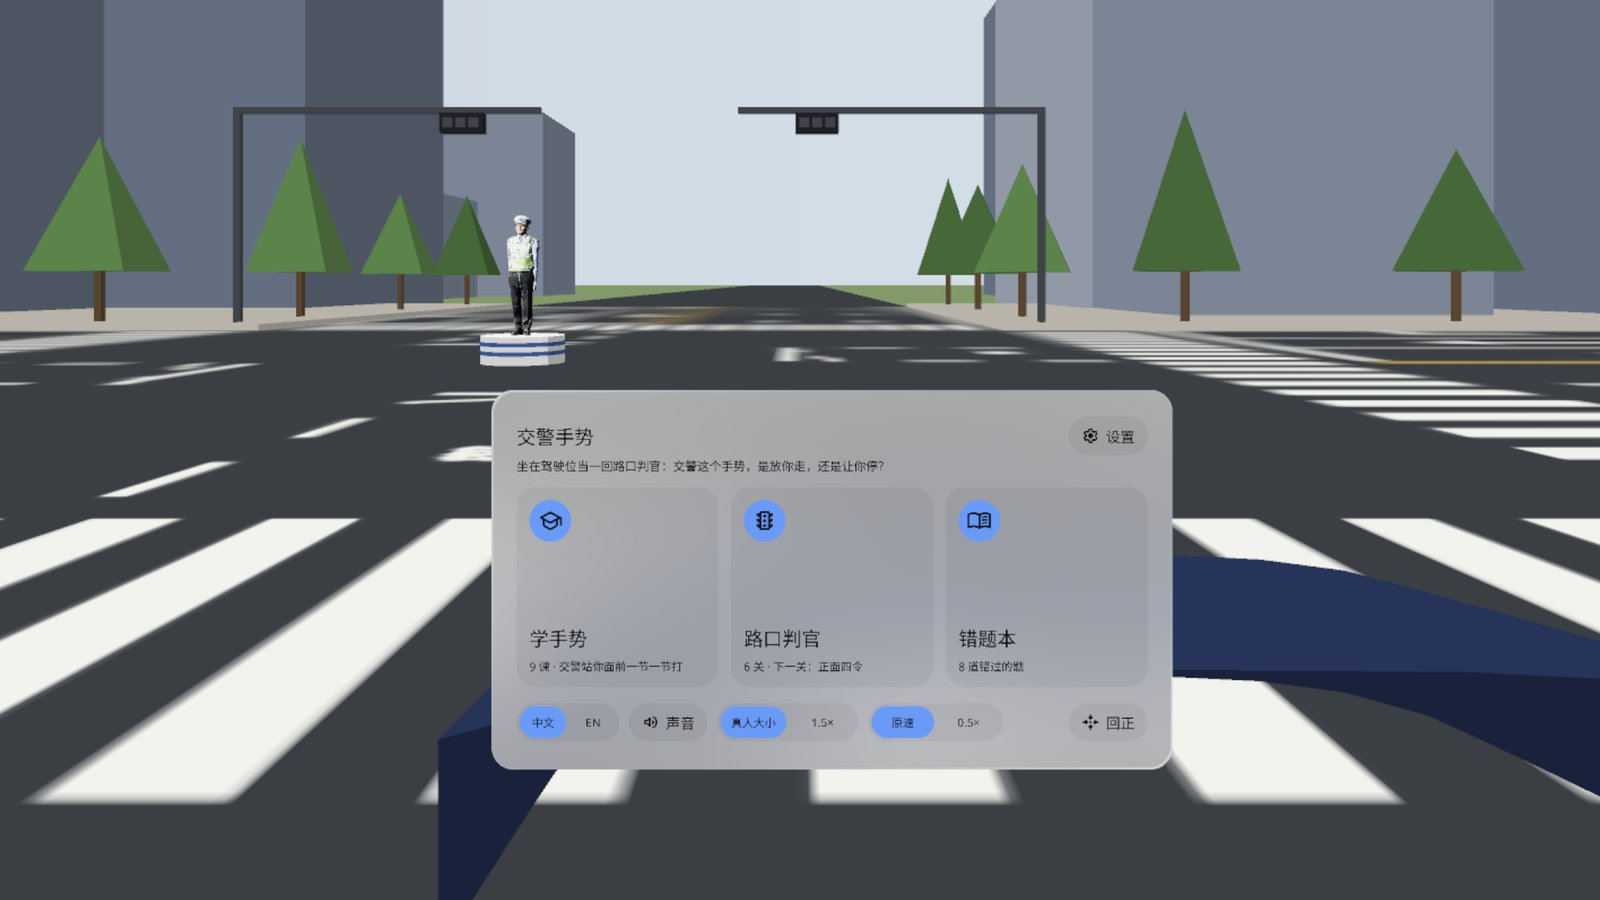
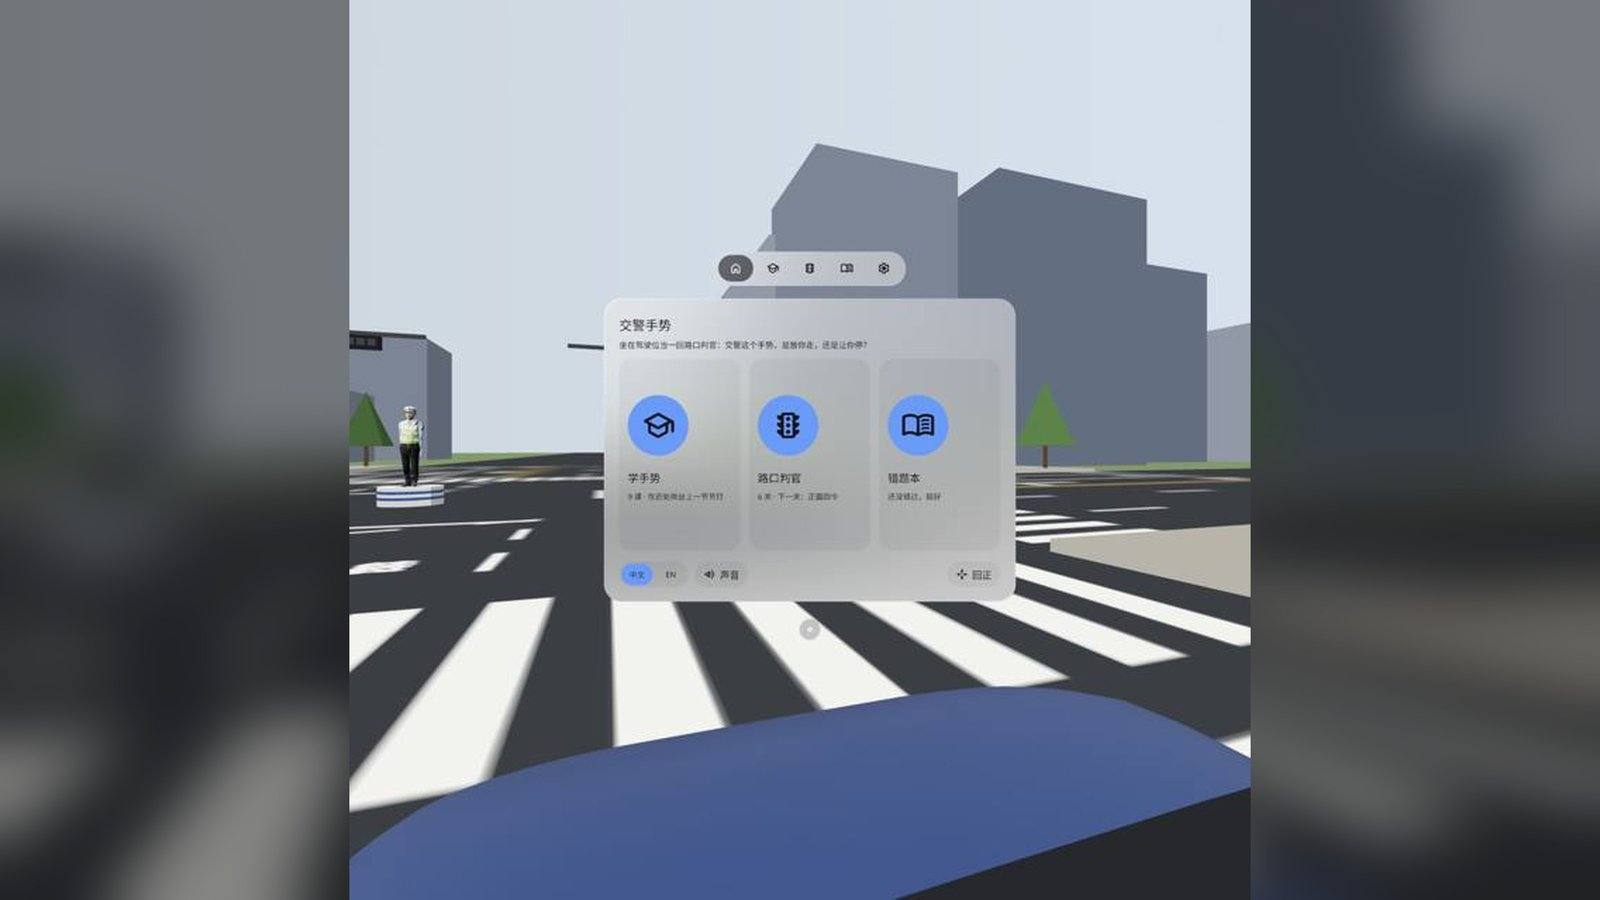
traffic-signals v0.1.5 release: README, v0.1.5 screenshots, AGENTS.md links
README describes v0.1.5 (checked on a headset), the changes since v0.1.1,
QA round 6 results and the English results-page truncation as a known issue.
docs/ screenshots replaced with v0.1.5 shots (Chinese + English).
AGENTS.md points at the factory's local PRD / sample HTML instead of private links.

diff --git a/README.md b/README.md
@@ -1,6 +1,6 @@
 # Traffic Cop Signals 交警手势
 
-> **v0.1.1 · Pre-release · passed emulator QA, not yet verified on a headset**（预发布 · 模拟器 QA 通过，真机未验证）
+> **v0.1.5 · checked on a PICO headset** · [Release v0.1.5](https://github.com/kejing-dev/TrafficSignals/releases/tag/v0.1.5)（真机看过，正式版）
 
 ![Traffic Cop Signals 交警手势](docs/cover.jpg)
 
@@ -12,54 +12,55 @@
 
 ## English
 
-Sit in the driver's seat at a virtual crossroads. A life-size traffic officer on the centre post turns to a random direction and gives one of the 8 official Chinese traffic police hand signals. Is that signal meant for your lane? Go, stop, pull into the waiting box, slow down, clear the lane or pull over. A PICO OS 6 app built with the PICO Spatial SDK.
+Sit in the driver's seat at a virtual crossroads. A life-size traffic officer on the post at the side of the junction turns to a random direction and gives one of the 8 official Chinese traffic police hand signals. Is that signal meant for your lane? Go, stop, pull into the waiting box, slow down, clear the lane or pull over. A PICO OS 6 app built with the PICO Spatial SDK.
 
-- **Learn the signals**: 9 lessons. Lesson 0 teaches you to read his front, back, left and right; lessons 1–8 cover the 8 signals (stop, go straight, left turn, left turn wait, right turn, change lane, slow down, pull over). The officer demonstrates 6 m ahead, step by step, with the official wording of each step, four viewing angles, 0.5× speed and a thumbstick to turn him around
+- **Learn the signals**: 9 lessons. Lesson 0 teaches you to read his front, back, left and right; lessons 1–8 cover the 8 signals (stop, go straight, left turn, left turn wait, right turn, change lane, slow down, pull over). The officer demonstrates on the post ahead of you, step by step, with the official wording of each step, four viewing angles, 0.5× speed and a thumbstick to turn him around
 - **Crossroads judge**: 6 levels, 69 questions: Face to face · On his right · On his left · Any direction · Same signal, other lane · Timed judge (answer within 5 s). All levels are open from the start
 - **Verdict card** explains every answer in three steps: which way he faces → whom the signal releases → which lane you are in. Right answers send your car off along its route, painted on the road ahead of you
 - **[Hint]** stands small signs around the post ("his front / back / left / right")
 - **Mistake book** groups wrong answers by signal and turns them into a practice round
-- Settings: language (Chinese / English), sound, officer size (life-size or 1.5×), speed, re-centre the crossroads, reset progress, quit app
+- Settings: language (Chinese / English), sound and volume, officer size (life-size or 1.5×), speed, re-centre the crossroads, reset progress, quit app
 - Offline, no account, no permissions
 
-### Screenshots (emulator, Chinese UI)
+### Screenshots (v0.1.5, emulator)
 
 | | |
 |---|---|
-| ![Lesson](docs/01-lesson.jpg) Learn: the left-turn signal frozen step by step, with the official wording on the right | ![Home](docs/02-home.jpg) Home: learn, crossroads judge, mistake book; language, sound, 1.5× size and slow motion |
-| ![Hint](docs/03-hint.jpg) Read his position first: [Hint] stands "his front / back / left / right" signs around the post | ![Verdict](docs/04-verdict.jpg) Verdict card: right, and why, in three steps |
-| ![Waiting box](docs/05-waitbox.jpg) Left turn wait: answer "pull into the waiting box" and your car slides over the zebra crossing into the box | ![Mistakes](docs/06-mistakes.jpg) Mistake book: wrong answers grouped by signal, one tap to practise them again |
+| ![Start](docs/01-start.jpg) Start: the officer stands on the post at the left of the junction; the window is in front of you, your own bonnet below | ![Home](docs/02-home.jpg) Home: learn, crossroads judge, mistake book; language, sound and re-centre along the bottom |
+| ![Lesson](docs/03-lesson.jpg) Lesson 1 "Stop": the officer demonstrates step by step, each step with the official wording | ![Result](docs/04-result.jpg) Level 1 result 9/10: score on the left, the missed question and its right answer on the right |
+| ![Mistakes](docs/05-mistakes.jpg) Mistake book: wrong answers kept by signal, one tap to practise again | ![Drill](docs/06-drill.jpg) Mistake drill intro: answer them again, right answers leave the book |
+| ![Question (EN)](docs/en-01-question.jpg) English UI: watch the signal, then pick what your lane should do | ![Settings (EN)](docs/en-04-settings.jpg) English settings: language, sound, volume, officer size, speed, re-centre, reset, quit |
 
-Screenshots come from the PICO emulator with states pinned by debug broadcasts. The side panels (verdict card at +36°, lesson panel at +30°) sit to your right, so a single forward screenshot only catches part of them; on QA's dedicated shots every panel shows all four rounded corners. The demo video in the release (`TrafficSignals-demo-1080p.mp4`, 58 s) is a native emulator run **driven by debug input — not a recording of real hand gestures or a real person** — and has no sound.
+Screenshots are from the PICO emulator at QA round 6 (v0.1.5). They are rebuilt from the QA report's 640 px copies, so they are softer than the headset view. The QA demo video is a native emulator run **driven by adb taps — not a recording of real hand gestures** — and has no sound.
 
 ### Install
 
 ```bash
-adb install -r TrafficSignals-v0.1.1.apk
+adb install -r TrafficSignals-v0.1.5.apk
 pico-cli app launch io.embodit.trafficsignals
 ```
 
-Get the APK from [Release v0.1.1](https://github.com/kejing-dev/TrafficSignals/releases/tag/v0.1.1). Requires PICO OS 6 (Spatial SDK 6.1.9, minSdk 35).
+Get the APK from [Release v0.1.5](https://github.com/kejing-dev/TrafficSignals/releases/tag/v0.1.5). Requires PICO OS 6 (Spatial SDK 6.1.9, minSdk 35). The release APK is an unsigned `assembleRelease` build for store re-signing; to sideload it yourself, sign it with your own debug key first (`apksigner sign --ks ~/.android/debug.keystore …`) or build `./gradlew assembleDebug`.
 
-### Not yet verified on a headset
+### What changed since v0.1.1
 
-Emulator QA round 2 passed all three gates (no Material components; install + launch + 60 s with no crash / ANR; all 19 states captured and checked in Chinese and English) and confirmed all 7 round-1 findings fixed, including both blockers (the "ghost car" starting from your own seat and covering the panels; English level titles cut off). No headset was connected when this was published, so a person still needs to check on a real PICO:
+- **v0.1.2** One native window: all 2D content in one system window with the SpatialUI TabBar (home / learn / judge / mistakes / settings). The officer starts on the post at the left of the junction instead of on top of you; city image-based lighting so his shirt and skin are no longer washed out.
+- **v0.1.3** Timed level: pausing, the leave dialog or closing the window stops the signal and the 5 s clock and never reveals the answer; volume slider; a rounded bonnet with mirrors for your own car and rounded cars on the road.
+- **v0.1.4** [Again] after a drill that cleared the mistake book replays the round; taller volume slider; [Clear] on the mistake book asks first; system minimise stops the clock like closing the window.
+- **v0.1.5** Result, mistake book, intro, confirm and short lesson pages re-laid out without large empty bands; bigger question line and answer keys.
 
-1. Eye + pinch and controller ray + trigger on every button of P1–P4 and the dialog, especially the 6 answer keys, [Hint] and [Watch again] on P2's second row, and the three keys on P3 (the emulator cannot tap Stage panels).
-2. Ghost car on all four routes (go straight / right / left, pull into the waiting box): no green car body in front of your face or the panels. The right-turn car comes closest (about 5.7 m) and passes behind P3; check it does not dazzle when you look at P3.
-3. Readability of the officer's signals 14 m away: all 8 signals at life size and at 1.5×, each facing once (on the emulator he is about 20 px tall).
-4. [Hint] direction signs: front and back are easy to tell apart in real depth and do not block the officer.
-5. Settings → Quit app → Quit, by hand: the app leaves recents and reopens on a clean home screen.
-6. Cold start once looking down 30° and once looking up 30°: P1 upright, facing you, near your line of sight.
-7. P3 (+36°) and P4 (+30°): comfortable to turn to, buttons reachable.
-8. Sound: 3 minutes with sound on is not annoying; mute is remembered.
+### Verification
+
+- Emulator QA round 6 (v0.1.5) passed all gates: no Material components; install + launch + 60 s with no crash / ANR; 58 Chinese and English screenshots; real taps through the main flow to Quit; 68 / 68 buttons respond in each language, no text overflow logged.
+- The developer installed v0.1.5 on a PICO headset (Swan) and approved it for release on 2026-11-10.
 
 ### Known issues (non-blocking)
 
-1. On the emulator the loading screen (S1) cannot be captured while the Stage builds its scene, so the S1 shot is from QA round 1 (v0.1.1 did not change it). Cold start to the home screen took 25–43 s on a loaded emulator host; the real timing needs a headset.
-2. Screenshots are at the emulator's default 2160 × 2158, not High Definition 2560, cropped to 16:9.
-3. Some lane / direction answers go beyond the official text and follow the rule "if you are not released, you wait" (e.g. a straight-ahead signal while you are in front of him). The verdict card marks each answer "Official" or "Inferred".
-4. The officer model's licence follows the developer's Tripo account plan and has not been confirmed yet (see Credits). Confirm before making this repository public.
+1. **English results page, 5 or more questions**: each row is limited to one line, so the end of "gesture · facing · lane → correct answer" is cut off with an ellipsis (`Panels.kt` result list, `maxLines = 1` when there are more than 4 rows). Chinese fits. Not fixed in this release.
+2. A few pages still have an empty band of 20–24 % of the window between title and content (results 1/1, mistake book with 1 row, question page, settings); all under the 25 % limit.
+3. On the emulator the loading screen (S1) cannot be captured while the Stage builds its scene.
+4. Some lane / direction answers go beyond the official text and follow the rule "if you are not released, you wait"; the verdict card marks each answer "Official" or "Inferred".
+5. The officer model's licence follows the developer's Tripo account plan and has not been confirmed yet (see Credits).
 
 ### Development
 
@@ -78,57 +79,58 @@ Kotlin · PICO Spatial SDK 6.1.9 · Full Space Stage (`STAGE_FULL`) with one sys
 
 ## 中文
 
-坐在虚拟路口的驾驶位上，路口中心岗台上站着一位 1:1 的交警，他随机转向一个方向，打出 8 种法定交通警察手势中的一种。这个手势是给你这条车道的吗？该走、该停、进待转区、减速慢行、腾空车道，还是靠边停车？PICO OS 6 应用，PICO Spatial SDK 开发。
+坐在虚拟路口的驾驶位上，路口岗台上站着一位 1:1 的交警，他随机转向一个方向，打出 8 种法定交通警察手势中的一种。这个手势是给你这条车道的吗？该走、该停、进待转区、减速慢行、腾空车道，还是靠边停车？PICO OS 6 应用，PICO Spatial SDK 开发。
 
-- **学手势**：9 课。第 0 课先认方位（他的前、后、左、右）；第 1–8 课是 8 种手势（停止、直行、左转弯、左转弯待转、右转弯、变道、减速慢行、示意车辆靠边停车）。交警在你前方 6 米示范，逐节定格，每节配公安部原文；可以换四个角度看、0.5× 慢放、用摇杆转动交警
+- **学手势**：9 课。第 0 课先认方位（他的前、后、左、右）；第 1–8 课是 8 种手势（停止、直行、左转弯、左转弯待转、右转弯、变道、减速慢行、示意车辆靠边停车）。交警在你前方岗台示范，逐节定格，每节配公安部原文；可以换四个角度看、0.5× 慢放、用摇杆转动交警
 - **路口判官**：6 关 69 题：正面四令 · 他的右边是你 · 他的左边是你 · 四面八方 · 换道再看 · 限时判官（5 秒内答）。一开始就全部能玩
 - **判定卡**三步讲清为什么：他朝哪 → 这个手势放谁 → 你在哪条道。答对了，你的车沿着路面上画出的路线开出去
 - **[提示]** 在岗台四周立起「他的前 / 后 / 左 / 右」小牌
 - **错题本**按手势分组，一键再练
-- 设置：语言（中 / 英）、声音、交警大小（真人 / 1.5×）、速度、路口回正、重置进度、退出应用
+- 设置：语言（中 / 英）、声音和音量、交警大小（真人 / 1.5×）、速度、路口回正、重置进度、退出应用
 - 不联网，不需要账号，不申请权限
 
-### 截图（模拟器，中文界面）
+### 截图（v0.1.5，模拟器）
 
 见上方截图表：
 
-1. 学手势：左转弯信号一节一节定格，右边是公安部原文
-2. 主页：学手势、路口判官、错题本，语言、声音、放大 1.5×、慢放都在这
-3. 先认方位：[提示] 在岗台四周立起「他的前 / 后 / 左 / 右」小牌
-4. 判定卡：答对了，三步讲清为什么
-5. 左转待转：答「进待转区」，你的车从斑马线滑进待转框
-6. 错题本：按手势分组记下答错的题，可以一键再练
+1. 开场：交警站在路口左侧岗台上，主窗口在你前方，底下是你自己的车头
+2. 主页：学手势、路口判官、错题本三张卡，底栏切中英、声音、回正
+3. 学手势第 1 课「停止」：交警逐节示范，每节配公安部原文
+4. 路口判官第 1 关 9/10：左边大圆是分数，右边列出答错的题和正确答案
+5. 错题本：答错的题按手势记下，一键再练
+6. 错题练习说明：再答一遍，答对就从错题本删掉
+7. 英文界面答题页、英文设置页
 
-截图来自 PICO 模拟器，状态用调试广播定住拍摄。判定卡（+36°）和课程面板（+30°）在你右手边，正前方的一张截图只拍到它们的一部分；QA 专项截图里每块面板四边圆角都完整。Release 里的演示视频（`TrafficSignals-demo-1080p.mp4`，58 秒）是原生模拟器演示，**由调试输入驱动，非真实手势录像**，无声。
+截图来自 QA 第 6 轮（v0.1.5）的 PICO 模拟器，用 QA 报告里 640 px 的副本合成，比头显里看到的糊一些。QA 演示视频是原生模拟器演示，**由 adb 点按驱动，非真实手势录像**，无声。
 
 ### 安装
 
 ```bash
-adb install -r TrafficSignals-v0.1.1.apk
+adb install -r TrafficSignals-v0.1.5.apk
 pico-cli app launch io.embodit.trafficsignals
 ```
 
-APK 在 [Release v0.1.1](https://github.com/kejing-dev/TrafficSignals/releases/tag/v0.1.1)。需要 PICO OS 6（Spatial SDK 6.1.9，minSdk 35）。
+APK 在 [Release v0.1.5](https://github.com/kejing-dev/TrafficSignals/releases/tag/v0.1.5)。需要 PICO OS 6（Spatial SDK 6.1.9，minSdk 35）。Release 里的 APK 是 `assembleRelease` 未签名包，给商店流水线重签名用；自己侧载要先用自己的 debug key 签名（`apksigner sign --ks ~/.android/debug.keystore …`），或者 `./gradlew assembleDebug` 自己出包。
 
-### 模拟器 QA 通过，真机未验证
+### v0.1.1 之后改了什么
 
-模拟器 QA 第 2 轮三道门禁全过（无 Material 组件；装机、启动、60 秒无崩溃 / ANR；19 个状态中英截图全部核对），第 1 轮 7 条全部复核已修，包括两条阻断（「幽灵车」从你自己的座位出发、糊住视野并穿过面板；英文关卡名被截断）。发布时头显没连，下面这些要戴上头显人工看：
+- **v0.1.2** 一个原生窗口：2D 内容都在一个系统窗口里，用 SpatialUI 原生 TabBar 切主页 / 学手势 / 路口判官 / 错题本 / 设置。交警开场站在路口左侧岗台上，不再落在你身上；换成城市环境光，衬衫和肤色不再发白。
+- **v0.1.3** 第 6 关限时：暂停、离开确认、关窗时手势和 5 秒钟一起停，不露答案；加音量滑条；自己的车换成圆弧车头 + 后视镜，路上配角车换成圆角车身。
+- **v0.1.4** 练到错题清空后 [再来一次] 重练本局；音量滑条加高；错题本 [清空] 先确认；系统最小化和关窗一样停表。
+- **v0.1.5** 结果页、错题本、说明页、确认框、短课重新排版，不再留大片空白；答题页提问句和答案键放大。
 
-1. 眼手捏合、手柄射线 + 扳机点遍 P1–P4 和对话框的所有按钮，尤其 6 个答案键、P2 第二行的 [提示] [再看一遍]、P3 的三个键（模拟器点不到 Stage 面板）。
-2. 幽灵车四条路线（直行 / 右转 / 左转答「走」、答「进待转区」）：脸前和面板前没有绿色车身。右转那辆离你最近（约 5.7 米），从 P3 后方经过，转头看 P3 时注意是否晃眼。
-3. 14 米外交警手势看不看得清：真人大小和 1.5× 各看 8 个手势，四个朝向各一遍（模拟器里交警只有约 20 像素高）。
-4. [提示] 方位立牌在真机景深下分得清前后、不挡交警。
-5. 设置 → 退出应用 → 退出，用手点一遍：应用从最近任务消失，再开是干净的首页。
-6. 低头 30°、抬头 30° 各冷启动一次：P1 竖直、正对你、在视线附近。
-7. P3（+36°）、P4（+30°）转头看是否舒服、按钮点不点得到。
-8. 声音：开着用 3 分钟不吵；静音开关记得住。
+### 验证
+
+- 模拟器 QA 第 6 轮（v0.1.5）门禁全过：无 Material 组件；装机、启动、60 秒无崩溃 / ANR；中英 58 张截图；真实点按主流程走到退出；中英各 68 / 68 个键有响应，无文字溢出日志。
+- 开发者 2026-11-10 在 PICO 头显（Swan）上装了 v0.1.5，看过后放行发布。
 
 ### 已知问题（不挡用）
 
-1. 模拟器上 Stage 建场景期间截不到载入画面（S1），S1 截图沿用 QA 第 1 轮（v0.1.1 没改它）。负载高的模拟器上冷启动到首页要 25–43 秒，真实时长要真机看。
-2. 截图是模拟器默认分辨率 2160 × 2158，不是高清 2560，裁成 16:9。
-3. 部分车道 / 方位的答案超出公安部原文，按「没被放行就等」推断（例如你在他前方时看到直行信号）；判定卡上每题标「原文」或「规则推断」。
-4. 交警模型的许可按开发者 Tripo 账号套餐条款，尚未核对（见致谢）；仓库公开前要先确认。
+1. **英文结果页 5 题以上**：每行限一行，「手势 · 朝向 · 车道 → 正确答案」末尾会被省略号截掉（`Panels.kt` 结果列表，超过 4 行时 `maxLines = 1`）。中文放得下。本版不修。
+2. 少数页面标题和内容之间还有占窗高 20–24% 的空带（结果 1/1、错题本 1 条、答题页、设置页），都在 25% 线以内。
+3. 模拟器上 Stage 建场景期间截不到载入画面（S1）。
+4. 部分车道 / 方位的答案超出公安部原文，按「没被放行就等」推断；判定卡上每题标「原文」或「规则推断」。
+5. 交警模型的许可按开发者 Tripo 账号套餐条款，尚未核对（见致谢）。
 
 ### 开发
 

diff --git a/AGENTS.md b/AGENTS.md
@@ -10,7 +10,7 @@ at a time (P2 / P3 / P4 / DLG of the design became pages of the window). The onl
 (打开面板 / 平视前方). No permissions, no network.
 
 Design package (binding): `../../spatial-app-factory/apps/traffic-signals/design-package.json`. PRD
-https://claude.ai/artifact/WRybtgGkGfQ15wFNfjZ51i, sample https://claude.ai/artifact/C5FFpDzhso2DL7ZYueDQrJ.
+`../../spatial-app-factory/apps/traffic-signals/html/prd.html`, sample `../../spatial-app-factory/apps/traffic-signals/sample.html` (local HTML in the factory repo).
 Scaffold: `pico-cli project create --sdk-type spatial --template stage`, then the panel pool, head tracker, theme,
 fonts and debug receiver ported from Rehearsal Hall (kejing-dev/RehearsalHall), the thumbstick from Figure Model.
 
